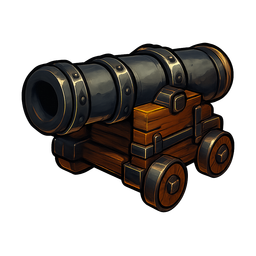
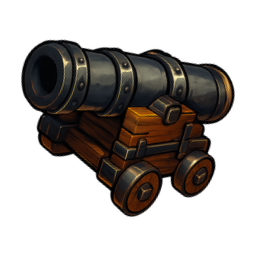
Level the stage-2 cannon, and let her spend the Reckoning she has been winding
THE CANNON. Stage 2 was drawn tilted muzzle-up while the other three sit level,
and that tilt is also why it looked small: the barrel is a `background:
center/contain` inside a fixed box, so the box has to swallow the inflated
diagonal of a rotated sprite and scales the whole gun down to fit. Levelling it
fixes both complaints with one change. Rotated 16 degrees and re-framed to the
same 216-of-256 footprint the other three use, so nothing downstream knows.
The art itself is untouched — this was framing, not drawing, and regenerating
would have spent money to re-roll a sprite that was already right.

HER RECKONING. She has been charging one since the meter was built: the miss
branch in resolveVolley has always been side-generic, and `fresh()` gives both
sides a `reck`. She simply had no way to spend it, so the enemy carried a full
meter around doing nothing for the rest of every fight. The broadside is now
side-generic (reckoningBroadside) and she fires it the instant it fills, before
her ordinary volley and without it costing her the round — which is exactly the
deal the player gets, so the mechanic reads the same from either deck.

AND HER METER IS ON HER CARD. A free unanswered broadside arriving with no
warning is a surprise, not difficulty, and the whole design of this fight is
that every number deciding it is on screen before you commit. Four notches, the
same ones you read on your own, shown only once she has wound at least one.
[…]

diff --git a/src/lib/marketplace/ship-battle.js b/src/lib/marketplace/ship-battle.js
@@ -486,6 +486,62 @@ export function initBattleState(me, foe) {
 //
 // Same event shape as a normal volley so the scene animates it with the machinery it already has; the volley
 // event is flagged `reckoning` so the presentation can make an occasion of it.
+/**
+ * A Reckoning broadside — every live gun, unmissable, one free volley.
+ *
+ * SIDE-GENERIC, because both captains earn one. Every ball that goes wide winds the firer's meter (see the
+ * miss branch in resolveVolley, which has always been side-generic), so the enemy has been charging a
+ * Reckoning since the day it shipped and simply had no way to spend it. She spends it now.
+ *
+ * Mutates `st` and returns the events. The volley is flagged `reckoning` and carries its own `side`, which is
+ * all the scene needs — it already reads `ev.side` and plays the gold beat off the flag.
+ */
+function reckoningBroadside(att, st, who, rng) {
+    const mySide = who === "me" ? st.me : st.foe;
+    const theirSide = who === "me" ? st.foe : st.me;
+    const victim = who === "me" ? "foe" : "me";
+    const events = [];
+    const after = [];
+    const shots = [];
+    let total = 0;
+    const live = mySide.guns.map((hp, i) => (hp > 0 ? i : -1)).filter((i) => i >= 0);
+
+    for (const gun of live) {
+        if (theirSide.hp <= 0) break;
+        const aim = reckoningTarget(theirSide, rng);
+        const shot = { gun, zone: aim.zone, target: aim.target, ammo: "round", hit: true, chance: 1, evasion: 0, rake: false, reckoning: true };
+
+        if (aim.zone === "hull") {
+            const bore = rng() < gunDmgChance(gunStat(att?.gunStats, gun).dmg);
+            const hits = 1 + (bore ? 1 : 0);
+            const landed = (theirSide.dmgTaken < 1 && rng() > theirSide.dmgTaken) ? Math.max(0, hits - 1) : hits;
+            theirSide.hp = Math.max(0, theirSide.hp - landed);
+            shot.dmg = landed; shot.hits = landed; shot.bore = bore;
+            total += landed;
+        } else if (aim.zone === "sails") {
+            shot.dmg = 0; shot.hits = 0;
+            if (theirSide.sails > 0) {
+                theirSide.sails = Math.max(0, theirSide.sails - 1);
+                shot.wrecked = "sails";
+                if (theirSide.sails === 0) after.push({ type: "wreck", victim, sys: "sails" });
+            }
+        } else {
+            shot.dmg = 0; shot.hits = 0;
+            const pick = aim.target;
+            if (pick != null && theirSide.guns[pick] > 0) {
+                theirSide.guns[pick] = Math.max(0, theirSide.guns[pick] - 1);
+                shot.wrecked = "guns"; shot.target = pick;
+                if (theirSide.guns[pick] === 0) after.push({ type: "wreck", victim, sys: "guns", index: pick });
+            }
+        }
+        shots.push(shot);
+    }
+
+    events.push({ type: "volley", side: who, shots, dmg: total, guns: shots.length, hp: hpPair(st), reckoning: true });
+    for (const ev of after) events.push({ ...ev, hp: hpPair(st) });
+    return events;
+}
+
 export function resolveReckoning(me, foe, state, { rng = Math.random } = {}) {
     const st = {
         v: BATTLE_STATE_V, round: state.round, gauge: state.gauge,
@@ -496,45 +552,7 @@ export function resolveReckoning(me, foe, state, { rng = Math.random } = {}) {
     st.me.reck = 0;
 
     const events = [];
-    const after = [];
-    const shots = [];
-    let total = 0;
-    const live = st.me.guns.map((hp, i) => (hp > 0 ? i : -1)).filter((i) => i >= 0);
-
-    for (const gun of live) {
-        if (st.foe.hp <= 0) break;
-        const aim = reckoningTarget(st.foe, rng);
-        const zone = zoneById(aim.zone);
-        const shot = { gun, zone: aim.zone, target: aim.target, ammo: "round", hit: true, chance: 1, evasion: 0, rake: false, reckoning: true };
-
-        if (aim.zone === "hull") {
-            const bore = rng() < gunDmgChance(gunStat(me?.gunStats, gun).dmg);
-            const hits = 1 + (bore ? 1 : 0);
-            const landed = (st.foe.dmgTaken < 1 && rng() > st.foe.dmgTaken) ? Math.max(0, hits - 1) : hits;
-            st.foe.hp = Math.max(0, st.foe.hp - landed);
-            shot.dmg = landed; shot.hits = landed; shot.bore = bore;
-            total += landed;
-        } else if (aim.zone === "sails") {
-            shot.dmg = 0; shot.hits = 0;
-            if (st.foe.sails > 0) {
-                st.foe.sails = Math.max(0, st.foe.sails - 1);
-                shot.wrecked = "sails";
-                if (st.foe.sails === 0) after.push({ type: "wreck", victim: "foe", sys: "sails" });
-            }
-        } else {
-            shot.dmg = 0; shot.hits = 0;
-            const pick = aim.target;
-            if (pick != null && st.foe.guns[pick] > 0) {
-                st.foe.guns[pick] = Math.max(0, st.foe.guns[pick] - 1);
-                shot.wrecked = "guns"; shot.target = pick;
-                if (st.foe.guns[pick] === 0) after.push({ type: "wreck", victim: "foe", sys: "guns", index: pick });
-            }
-        }
-        shots.push(shot);
-    }
-
-    events.push({ type: "volley", side: "me", shots, dmg: total, guns: shots.length, hp: hpPair(st), reckoning: true });
-    for (const ev of after) events.push({ ...ev, hp: hpPair(st) });
+    for (const ev of reckoningBroadside(me, st, "me", rng)) events.push(ev);
 
     const sunk = st.foe.hp <= 0 ? "foe" : null;
     const over = Boolean(sunk);
@@ -769,7 +787,22 @@ export function resolveVolley(me, foe, state, aims, { rng = Math.random, foeOrde
     // "on the first round" are the same sentence when there is only ever one first round.
     const stunned = Boolean(me?.stun) && st.round === 1 && st.foe.hp > 0;
     if (stunned) events.push({ type: "stun", side: "foe", hp: hpPair(st) });
-    else fire("foe", theirs);
+    else {
+        // HER RECKONING. She has been winding one on every ball that went wide since the meter was built —
+        // the miss branch above is side-generic — and she had no way to spend it, so the enemy carried a full
+        // meter around doing nothing for the rest of the fight.
+        //
+        // Fired the instant it fills, BEFORE her ordinary broadside, and it does not cost her the round. That
+        // is exactly the deal the player gets (see shipBattleReckoning: "you took a free shot inside the
+        // round, you did not skip it"), so the mechanic reads the same from either deck — which is the point.
+        // She has no button to choose the moment with, and inventing hesitation for her would just be a
+        // hidden delay nobody could see.
+        if ((st.foe.reck || 0) >= RECKONING_AT && st.foe.hp > 0 && st.me.hp > 0) {
+            st.foe.reck = 0;
+            for (const ev of reckoningBroadside(foe, st, "foe", rng)) events.push(ev);
+        }
+        if (st.me.hp > 0 && st.foe.hp > 0) fire("foe", theirs);
+    }
 
     // IT ENDS WHEN A SHIP GOES DOWN. There used to be a fourteen-round limit and a winner decided on which
     // hull had the greater share of itself left, which is how a fight both captains were still fighting got

diff --git a/src/components/ShipBattleScene.js b/src/components/ShipBattleScene.js
@@ -482,7 +482,7 @@ function Ship({ f, side, hurt, heavy, low, sinking, hp = null, hpMax = null, sys
 // ── THE PANELS ───────────────────────────────────────────────────────────────────────────────────────────────
 // Hull, canvas and guns per ship. The two systems are pips rather than numbers: the question they answer is
 // "has she anything left to shoot off", which is a shape.
-function Bar({ f, hp, max, side, sys, caps }) {
+function Bar({ f, hp, max, side, sys, caps, foeReck = null }) {
     // A creature keeps `sails` internally purely as its evasion (see initBattleState) — a serpent should be no
     // easier to hit than a sloop. That is correct, but the chip explaining it said "canvas keeps her dodging"
     // over an animal with no canvas, and once the sail pips were (rightly) hidden the player was left missing
@@ -531,6 +531,24 @@ function Bar({ f, hp, max, side, sys, caps }) {
                 {/* ARMOUR IS GONE. It was a percentage on a card that quietly turned aside balls you had
                     already earned — a hit that did nothing. A ball that lands is a plank now, so there is
                     nothing here to show. */}
+                {/* HER RECKONING, once she has wound one. She fires it the moment it fills and it does not
+                    cost her the round — so this is the warning, and it is the same four notches you read on
+                    your own. Hidden at zero: an empty meter on every card in every fight would be furniture. */}
+                {foeReck && foeReck.n > 0 ? (
+                    <span className={`sbt-syschip is-foereck${foeReck.n >= foeReck.at ? " is-full" : ""}`}
+                        title={foeReck.n >= foeReck.at
+                            ? `${foeReck.name} — her next broadside is free and cannot miss`
+                            : `${foeReck.name} — ${foeReck.at - foeReck.n} more of her shots must go wide`}>
+                        {/* eslint-disable-next-line @next/next/no-img-element */}
+                        <img src="/images/sailing/gun/reckoning.png" alt="" className="sbt-sysart" draggable="false" />
+                        <span className="sbt-syslabel">{foeReck.name}</span>
+                        <em className="sbt-foereck-pips" aria-hidden="true">
+                            {Array.from({ length: foeReck.at }).map((_, i) => (
+                                <i key={i} className={i < foeReck.n ? "is-on" : ""} />
+                            ))}
+                        </em>
+                    </span>
+                ) : null}
             </div>
         </div>
     );
@@ -1034,7 +1052,7 @@ export default function ShipBattleScene({ battle, busy, onVolley, onReckoning, o
                     {/* Nothing here any more: you fire first in every fight, including one already in
                         progress, so there is no order left to announce. */}
                 </div>
-                <Bar f={foe} hp={foeHp} max={battle?.foeMax} side="foe" sys={foeSys} caps={caps} />
+                <Bar f={foe} hp={foeHp} max={battle?.foeMax} side="foe" sys={foeSys} caps={caps} foeReck={battle?.foeReck} />
             </div>
 
             <div className={`sbt-chrome${logOpen ? " is-open" : ""}`}>

diff --git a/src/app/globals.css b/src/app/globals.css
@@ -16022,3 +16022,14 @@ img.fish-reveal-art { display: block; width: 128px; height: 128px; object-fit: c
     background: transparent;
     border-color: rgba(255, 215, 94, 0.4);
 }
+
+/* HER RECKONING, on the enemy card. Same four notches the player reads on their own meter, because it is the
+   same mechanic fired from the other deck — she winds one on every ball of hers that goes wide and spends it
+   the moment it fills, without it costing her the round. Shown only once she has at least one, so an empty
+   meter is never furniture on a card. */
+.sbt-syschip.is-foereck { --reck: #ffb45e; }
+.sbt-syschip.is-foereck.is-full { --reck: #ff7a4d; animation: sbtFoeReck 1.2s ease-in-out infinite; }
+@keyframes sbtFoeReck { 0%, 100% { filter: none; } 50% { filter: brightness(1.35) drop-shadow(0 0 6px rgba(255,122,77,.55)); } }
+.sbt-foereck-pips { display: inline-flex; gap: 3px; align-items: center; font-style: normal; }
+.sbt-foereck-pips i { width: 6px; height: 6px; border-radius: 2px; background: rgba(255,255,255,0.18); }
+.sbt-foereck-pips i.is-on { background: var(--reck, #ffb45e); box-shadow: 0 0 4px var(--reck, #ffb45e); }

diff --git a/src/lib/marketplace/sailing.js b/src/lib/marketplace/sailing.js
@@ -2384,6 +2384,10 @@ const buildBattleView = (st, meta, { row = null, hulls = null } = {}) => ({
     caps: { sails: SAILS_MAX, gun: GUN_HP },
     // THE RECKONING. How many of your balls have gone wide, and what it takes to spend it. See ship-battle.
     reck: { at: RECKONING_AT, n: Math.max(0, Math.min(RECKONING_AT, st.me.reck || 0)), name: RECKONING_NAME },
+    // HERS, because she fires one now. A free unanswered broadside that arrives with no warning is not
+    // difficulty, it is a surprise — and the whole design of this fight is that every number deciding it is on
+    // screen before you commit. Same shape as yours so the card can read it without a special case.
+    foeReck: { at: RECKONING_AT, n: Math.max(0, Math.min(RECKONING_AT, st.foe.reck || 0)), name: RECKONING_NAME },
     // Each gun's own ceiling — a barrel with Iron on it holds more hits than the one beside it, and the
     // scene has to read "1 of 3" against the right number.
     gunMax: { me: st.me.gunMax || null, foe: st.foe.gunMax || null },
